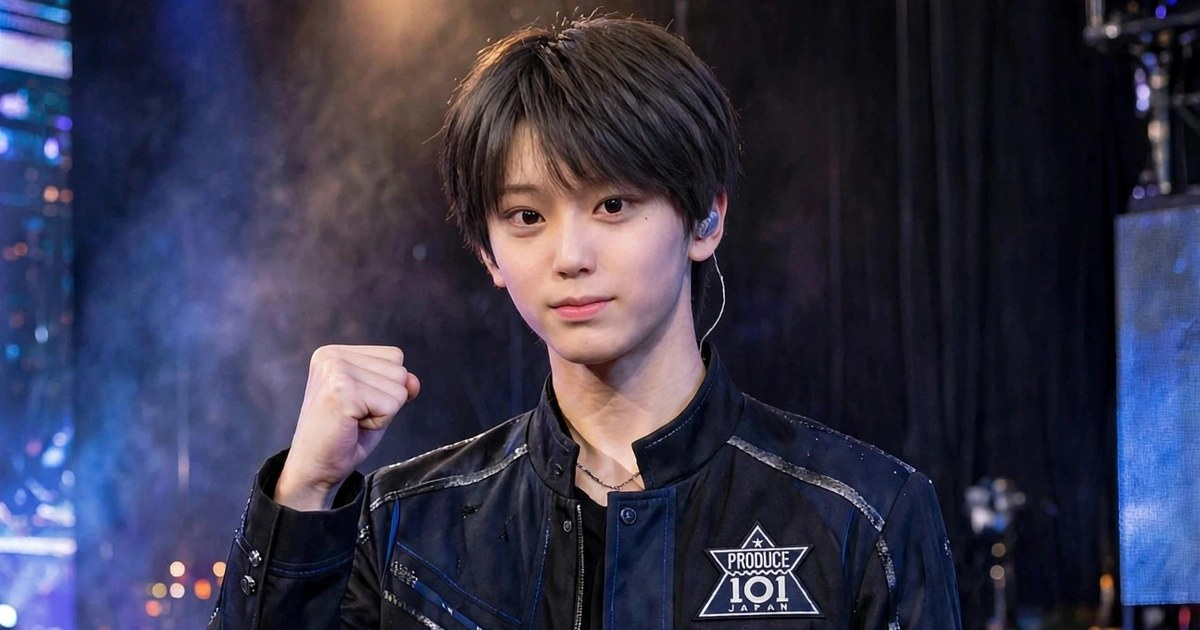
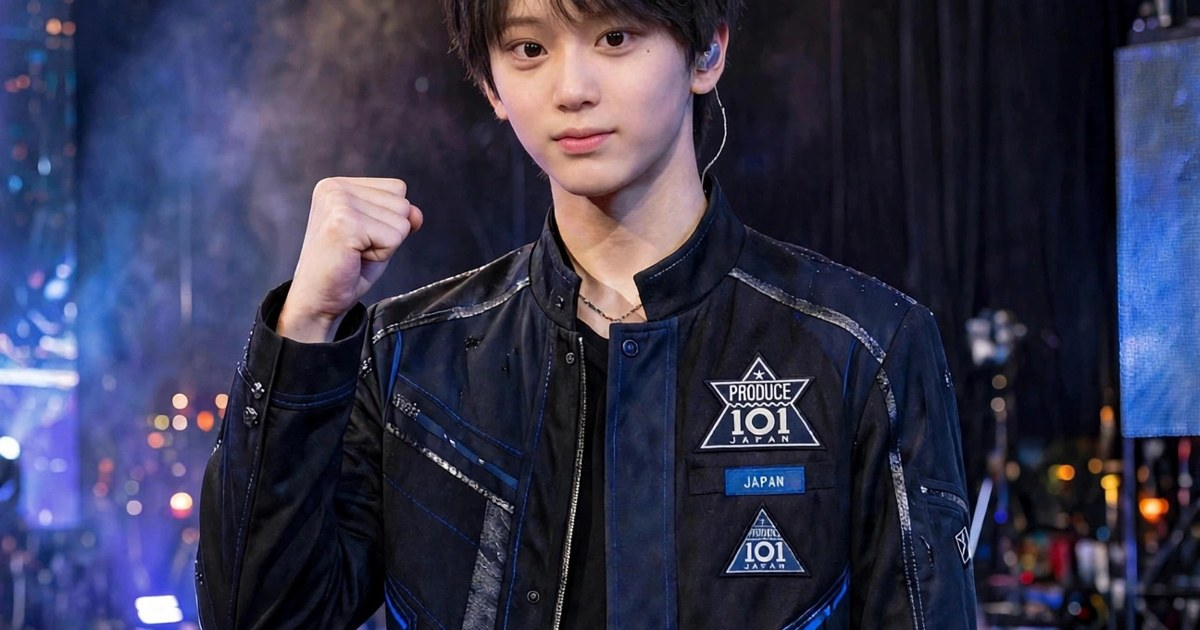
v163: 2019 stage/ranking-close の鼻を自然な大きさに再修正

diff --git a/index.html b/index.html
@@ -806,7 +806,7 @@ body{font-family:-apple-system,"Hiragino Kaku Gothic ProN","Noto Sans JP",sans-s
 <script>
 "use strict";
 const $=s=>document.querySelector(s);
-const VER="v162";
+const VER="v163";
 /* ============ state ============ */
 const DEF={idx:0,started:false,consented:false,soundOn:true,
  g:{iwakan:0,bare:0,todoita:0,uta:8,dance:4,ishi:50},
@@ -2560,7 +2560,7 @@ function renderSettings(tab){setTab=tab;document.querySelectorAll("#set-tabs but
  <div class="srow"><span>到達した結末</span><span class="sv">${S.trueEnd?"TRUE END ― 現在":S.normalEnd?"END ― 通常現在":S.loopBad?"BAD END ― ループ継続":S.bareEnd?"END ― 秘密バレIF":S.ridatsuEnd?"END ― 離脱した現在":"（まだ到達していません）"}</span></div>
  <div class="srow"><span>サウンド</span><span class="sv"><button id="snd-btn" style="background:${S.soundOn!==false?"#17172a":"#c6c6d4"};color:#fff;border:none;border-radius:999px;padding:6px 18px;font-size:12.5px;font-weight:700;cursor:pointer">${S.soundOn!==false?"ON":"OFF"}</button></span></div>
  <div class="srow"><span>フィクション</span><span class="sv">実在の記録をもとにした創作です</span></div>
- <div class="srow"><span>アップデート</span><span class="sv">v16 サウンドと画面遷移／v17 差分再演REPLAYとDiff時代別表示／v18 現在の小さな変化／v19 トークのスレッドとフリーチャット／v20・v23・v32 場面カットの追加／v21 日常回（食堂の夜・売店の夜）／v22 番組アプリの情報デザイン／v24 ホーム背景の時代連動と進行％／v25 タイトルのスライドショー／v26 彼の画面のカウンタ／v27 ロック画面の通知スタック／v28 写真の全画面ビューア／v30 章ごとの記録カード／v31 フィナーレ直前の彼の視点／v33 フリーチャットの時代別応答／v34 投票レシート／v35 ミッション進捗バー／v36 ゲージの危険域表示／v37 選んだ記録の判別表示／v38 台帳の時代別表示／v39 Keepsakeの時代バッジ／v41 章名つきロック画面／v42 トークの新着バッジ／v43 名簿の詳細パネル／v44 写真のスワイプ送り／v45 BGMの時代連動／v46 順位・差分の専用SE／v47 長押し早送り／v48 章セレクト／v50 REPLAY再演の追加／v52 日常回（コンビニの夜）／v53 タイトル通知のセーブ連動／v54 アプリアイコンのバッジ／v55 主人公の正式名「三浦渚央」と2019プロフィールの新フェイス差し替え／v56〜v59 プロフィール・場面カットの新フェイス再生成／v60 カード画角の統一（頭部55〜60%）と三浦渚央の順位表示／v61 名簿メモへの順位追記と凡例／v62 周B順位発表の彼の視点／v63 ストーリーバナーのサムネ時代連動／v64 タイトルに正式名／v65 ロック画面に順位通知／v66 情報タブに順位の記録／v67 順位行の文字色修正／v68 現在の小さな変化（順位の残響）／v69 写真メモに順位結果／v70 節目 ― 全アプリ走査／v71 フリーチャットの話題追加／v72 トークのチップ追加／v73・v74 順位タブの空状態整理／v75 順位変動のDiff記録／v76 節目 ― 全アプリ走査／v77 2021周A・初回ステージ後に彼の画面を追加／v78 2023周A・ファンカム章に彼の視点（インライン）を追加／v79 2019周A・順位発表式に彼の視点（インライン）を追加／v80 2023周A・VERY NICE本番前に彼の視点（インライン）を追加／v81 2023周A・寮の夜に彼の視点（インライン）を追加／v82 2019周A・届くはずのなかった手紙に彼の視点（インライン）を追加／v83 フリーチャットの話題拡充（2019専用プール＋新キーワード6種＋チップ追加）／v84 周Aの彼の記憶の線引きで全監査（2021・2023到着場面と彼の画面3件を連続した同僚の前提に書き換え）／v85 2019周A・練習室の夜に彼の視点（インライン）を追加／v86 2021周A・寮の一夜に彼の視点（インライン）を追加／v87 2023周A・コンビニの夜に彼の視点（インライン）を追加／v88 台帳・Keepsake・Diffの時代分類を修正（NXD期グループ新設、誤分類6件を是正）／v89 場面カット追加（2023順位発表の夜・face2基準で新規生成）／v90 場面カット追加（2021ファイナルの夜・face2基準で新規生成）／v91 節目 ― 全アプリ走査／v92 日常回「自販機の夜」（2023・周B）を追加／v93 2019周A・レベル分け評価に彼の視点（インライン）を追加／v94 写真アプリに時代別グルーピング（見出し＋枚数）を追加／v95 場面カット追加（NXD期・夜の練習室、face2基準で新規生成）／v96 フリーチャットの時代別プールを拡充（各時代＋2件）／v97 2019周B・発覚に彼の視点（インライン）を追加／v98 2021周B・再会に彼の視点（インライン）を追加／v99 2023周B・発覚に彼の視点（インライン）を追加／v100 節目 ― 全編通しプレイ検証／v101 効果音の配線追加（台帳・Keepsake・彼の視点）／v102 トークに彼のメッセージを3件追加／v103 タイトルのスライドショー拡充（8枚）とホーム背景のNXD期差し替え／v104 2023周B・再会に彼の視点（インライン）を追加／v105 2021周B・売店の夜に彼の視点（インライン）を追加／v106 NXD期・周B「移籍の決断」に彼の視点（インライン）を追加／v107 2023周B・共同作戦に彼の視点（インライン）を追加／v108 2019周B・共同作戦（ツカメ対策）に彼の視点（インライン）を追加／v109 2021周B・共同作戦に彼の視点（インライン）を追加／v110 NXD期・周B「延期の季節 ― 二度目」に彼の視点（インライン）を追加／v111 フリーチャット拡充（キーワード応答3種・チップ2件・現在編プール拡充）／v112 節目 ― 全アプリ走査／v113 2023周B・自販機の夜に彼の視点（インライン）を追加／v114 2019周A・食堂の夜に彼の視点（インライン）を追加／v115 2021周B・順位発表の締めに彼の視点（インライン）を追加／v116 設計ドキュメントの実装状況を更新／v117 場面カット追加（2019食堂の夜・face2基準で新規生成）／v118 場面カット追加（2021売店の夜・face2基準で新規生成）／v119 場面カット追加（2023コンビニの夜・face2基準で新規生成）／v120 背景の差し替え（現在編の冒頭とソロデビューの場面）／v121 節目 ― 全編通しプレイ検証（v101〜v120の追加後）／v122 画像出典メモ（IMAGE_SOURCES.md）に新規カット6点とface2基準を追記／v123 READMEの状態表記を現行（本編完結・公開中）に更新／v124 視覚QAで発見した順位タブの防御的修正（順位値の欠損時に最低ラインへフォールバック）／v125 節目 ― 全画面の視覚QA（撮影確認）／v126 節目 ― 別エンディング到達検証（秘密バレIF・離脱した現在）／v127 節目 ― 全5エンディング到達検証の完了（通常現在・ループ継続BADを追加確認）／v128 設計ドキュメントの実装状況に最終検証結果を追記／v129 READMEの現行版表記を更新／v130 生成メタファイルを .gitignore に追加して作業ツリーを整理／v131 「届くはずのなかった手紙」に背景を設定（食堂カットの引き継ぎを解消）／v132 フリーチャットの応答拡充（キーワード応答8種・時代別プール各+2件・チップ2件を追加）／v133 仕上げのUI調整（ホームのアプリアイコンのラベルの可読性を向上、ストーリー画面のゲージチップを均等な3+3配置に整形）／v134 フリーチャットに語学の話題を追加（中国語・韓国語・英語へのキーワード応答）／v135 節目 ― 朝まで改修の最終版（全アプリ走査・ドキュメント同期）／v136 トークを実物化（1相手=1スレッドに集約・未読バッジ・プレビュー・実物時刻・日付チップ・自分の送信への既読表示。仕組みは『現役アイドル、Tinderやってた件』のLINEと『キープ管理中！』の未読管理から移植）／v137 2021・2023の渚央プロフィールを制服版に統一（創造営の紺制服／ボイプラの淡グレー制服。名簿・順位・パネル・背景・写真の参照を全て profile-uniform 系へ）／v138 ロック画面とホームの実物化（主通知の送信者を実アプリ名にし未読トークがあれば最新メッセージを表示、日付を月日＋曜日の実物形式に、ホームと写真の操作説明文を撤去）／v139 トークをTinder版（v462）LINEと実測比較して一致（バブルの角・色・文字サイズ、入力欄、送信ボタン、日付チップ、一覧の行構成と検索ボックス、スレッドヘッダーのアバター）／v140 トークにLINEアプリのシェルを移植（下部タブバー＋タブ画面を新設。タブの数・並び・切替挙動はTinder版LINEと同一で、ホームタブは三浦渚央のプロフィール＋届いた応援カード＋友だちリストのパネル、ニュースは番組アプリ、その他は設定・記録へ接続）／v141 ロック画面の進化（時計を88px・太字に、通知カードをblur20px＋saturateの実物仕様にして幅を統一、スタック通知のアイコンをアプリ別SVGに分けて出現をスタッガード化。ステータスバーと電池％を追加し、壁紙を時代連動＋緩やかなズームに。下部のライトは白フラッシュが光る実働ボタンに、カメラは写真アプリへ直行。通知はタップで該当アプリ・記録へ遷移）／v142 ホーム画面の進化（Tinder版ホームのページ構成を移植：飾りだったドットを実働の2ページ化にし、横スワイプとドットタップで切替。2ページ目に物語暦のカレンダーウィジェットと時代のカットが切り替わる写真ウィジェットを新設し、記録サマリと次のミッションを移設。ドットの横に検索ピルを追加し、アプリ・記録を検索して直接開けるシートを実装。下部にガラスのドック（トーク／写真／番組アプリ／設定・記録、バッジ連動）を追加。ステータスバーに電池％、壁紙に緩やかなズーム）／v143 ロック画面の通知スタックの隙間を修正（ベースCSSの上マージン34pxがスタック内の通知にも効いて間隔が42pxに広がっていたのを、実物どおり8pxに統一。あわせて通知領域を時計の下〜下部ボタンの上のスクロール領域にして、通知が多くてもライト／カメラのボタンやヒント文字に重ならないようにした）／v144 写真アプリの進化（『現役アイドル、Tinderやってた件』の写真アプリから移植：2列カード型だったグリッドを3列・隙間2px・正方形の実物仕様にし、時代見出し＋枚数のヘッダーと上部のピル型タブ（すべて／時代別で絞り込み）を新設。ビューアはお気に入り（セーブに保持、グリッドにもハート表示）とスライドショーを追加し、送りを循環式から端で止まるクランプ式に変更、キャプション＋差分メモ＋時代＋通し番号のメタ表示とキー操作に対応。複数選択モード（最大4枚）からコラージュを作成でき、ロック画面の壁紙にも設定できる（時代連動に戻す導線つき）。中身の時代別カットと枚数は従来どおり）／v145 アプリアイコンをTinder版の様式に統一（アイコンを全面SVG化し、背景レイヤーまで1枚に収める方式へ。トーク＝LINE・写真・設定・記録はTinder版と同型のアイコンに、番組アプリは金の縦グラデーション＋王冠のグリフで同水準に。アイコンの角丸と影もTinder版の実測値に一致。あわせてラベル用ピルのCSSがドックのアイコンにも漏れて円形になっていた不具合を修正し、ドックでもグリッドと同じ角丸アイコンが並ぶようにした）／v147 渚央の顔を最終基準（本人の写真由来の顔＋クールな髪型）へ差し替え開始。2023編のプロフィール（基準画像そのものへ差し替え、カード用クロップも新基準で作成）と場面カット全8点を基準顔で再生成／v148 2021編を新基準へ差し替え（プロフィールは19歳相当＋創造営制服＋屋外背景で新規生成、カード用クロップも作成。場面カット5点＝daily／practice／ranking-close／study／shop-nightを19歳相当の基準顔で再生成。stageは次版で差し替え予定）／v149 2019編を新基準へ全面差し替え（プロフィールは17歳相当で再生成し直し、カード用クロップも新規作成。場面カット7点＝stage／stage2／dorm／practice／ranking-close／selfie／cafeteriaを17歳相当の基準顔で再生成）。リンクプレビュー用のog:image（新stageから作成）も新設／v150 旧素材（候補ファイル群・旧プロフィール）を保管庫へ退避し、顔素材を新基準のラインに統一（表示内容の変更なし）／v151 2021のステージカットを新顔基準（19歳版）で差し替え、顔の全面差し替えが完了／v153 2021プロフィールに創造営の学員証を追加（メンバーが付けている装着物に合わせた。2019は名札が既存仕様どおり、2023は装着物なしが実物どおり）。<br>v152 全時代のプロフィールをポーズ付きに作り直し（2019＝ガッツポーズの全身ショット、2021＝頬ハートの膝上ショット、2023＝腕組みのウエスト上ショット。顔は新基準のラインを維持し、寄りクロップも新しい全身から作り直し）<br>v154 全身カットの脚の比率を修正（2019・2021の練習室カットを脚長・細身のモデル体型プロポーションで再生成。構図・ポーズ・顔は維持）<br>v155 鼻の大きさを基準顔に修正（2019ステージカットと順位発表カットの鼻を、基準の小さく細い鼻筋＋小さく上向きの鼻先に寄せて再生成。構図・衣装・表情は維持）<br>v156 「彼の画面」を現代のモバイルADV風に作り替え（時代の場面カットをぼかしたシネマティック背景＋暗グラデーション、大翔のアバター＋名前チップのヘッダー、進行は紫ピルをやめてグラデーションのプログレスバー＋控えめな件数表示に。心の声は字幕風の中央テキスト＋ヘアライン区切り、セリフはガラス質の吹き出しカードにし、金枠と紫イタリックを廃止。終わりは白ピルの「戻る」ボタン。本文・分岐・ゲージの仕様は不変。物語内の彼の視点カードも同じ質感に統一）<br>v157 番組アプリのリアル化（お知らせタブを新設し、時代と進行に連動する事務局・投票・コンテンツ通知を掲載。結果のお知らせからは順位タブへ遷移。名簿の詳細をプロフィールページ化：ヒーロー写真＋名前オーバーレイ＋区分・番組の情報行＋順位の記録テーブル（彼の初回12位など史実と周ごとの結果を、発表済みの分だけ表示）＋渚央のスキルバー。順位タブの大翔・渚央の周B行に前回比の変動チップ▲を追加）<br>v158 設定・記録のリアル化（情報タブをiOS設定風に：作品情報／いまの記録／サウンド／履歴のグループカード化、サウンドはピルボタンからiOSトグルスイッチに、長いアップデート履歴は開閉式に収納。表示テキストは全て従来どおり。ゲージ・台帳・Keepsake・Diff・章の各タブはカード型の行＋チップ見出しで履歴・メモ系UIの質感に統一。ゲージ説明や順位計算などの仕様・文言は不変）<br>v162 周Bの記憶ルールを新仕様に統一（彼の記憶は周B開始時＝2019年の再会で大周回Aの全部が一度に戻る。旧仕様「時代ごとに、その時代ぶんが順に戻る」は廃止。2019編の発覚を全部戻った前提の大きな一場面に書き直し、2021・2023編の再会は「その時代の記憶が戻る・既視感から確信」ではなく確認と共同作戦の続きに書き換え。彼の視点・幕間・ロック画面の通知文も同じ前提に統一。ゲージ・分岐・順位計算などの数値仕様は不変）</span></div>
+ <div class="srow"><span>アップデート</span><span class="sv">v16 サウンドと画面遷移／v17 差分再演REPLAYとDiff時代別表示／v18 現在の小さな変化／v19 トークのスレッドとフリーチャット／v20・v23・v32 場面カットの追加／v21 日常回（食堂の夜・売店の夜）／v22 番組アプリの情報デザイン／v24 ホーム背景の時代連動と進行％／v25 タイトルのスライドショー／v26 彼の画面のカウンタ／v27 ロック画面の通知スタック／v28 写真の全画面ビューア／v30 章ごとの記録カード／v31 フィナーレ直前の彼の視点／v33 フリーチャットの時代別応答／v34 投票レシート／v35 ミッション進捗バー／v36 ゲージの危険域表示／v37 選んだ記録の判別表示／v38 台帳の時代別表示／v39 Keepsakeの時代バッジ／v41 章名つきロック画面／v42 トークの新着バッジ／v43 名簿の詳細パネル／v44 写真のスワイプ送り／v45 BGMの時代連動／v46 順位・差分の専用SE／v47 長押し早送り／v48 章セレクト／v50 REPLAY再演の追加／v52 日常回（コンビニの夜）／v53 タイトル通知のセーブ連動／v54 アプリアイコンのバッジ／v55 主人公の正式名「三浦渚央」と2019プロフィールの新フェイス差し替え／v56〜v59 プロフィール・場面カットの新フェイス再生成／v60 カード画角の統一（頭部55〜60%）と三浦渚央の順位表示／v61 名簿メモへの順位追記と凡例／v62 周B順位発表の彼の視点／v63 ストーリーバナーのサムネ時代連動／v64 タイトルに正式名／v65 ロック画面に順位通知／v66 情報タブに順位の記録／v67 順位行の文字色修正／v68 現在の小さな変化（順位の残響）／v69 写真メモに順位結果／v70 節目 ― 全アプリ走査／v71 フリーチャットの話題追加／v72 トークのチップ追加／v73・v74 順位タブの空状態整理／v75 順位変動のDiff記録／v76 節目 ― 全アプリ走査／v77 2021周A・初回ステージ後に彼の画面を追加／v78 2023周A・ファンカム章に彼の視点（インライン）を追加／v79 2019周A・順位発表式に彼の視点（インライン）を追加／v80 2023周A・VERY NICE本番前に彼の視点（インライン）を追加／v81 2023周A・寮の夜に彼の視点（インライン）を追加／v82 2019周A・届くはずのなかった手紙に彼の視点（インライン）を追加／v83 フリーチャットの話題拡充（2019専用プール＋新キーワード6種＋チップ追加）／v84 周Aの彼の記憶の線引きで全監査（2021・2023到着場面と彼の画面3件を連続した同僚の前提に書き換え）／v85 2019周A・練習室の夜に彼の視点（インライン）を追加／v86 2021周A・寮の一夜に彼の視点（インライン）を追加／v87 2023周A・コンビニの夜に彼の視点（インライン）を追加／v88 台帳・Keepsake・Diffの時代分類を修正（NXD期グループ新設、誤分類6件を是正）／v89 場面カット追加（2023順位発表の夜・face2基準で新規生成）／v90 場面カット追加（2021ファイナルの夜・face2基準で新規生成）／v91 節目 ― 全アプリ走査／v92 日常回「自販機の夜」（2023・周B）を追加／v93 2019周A・レベル分け評価に彼の視点（インライン）を追加／v94 写真アプリに時代別グルーピング（見出し＋枚数）を追加／v95 場面カット追加（NXD期・夜の練習室、face2基準で新規生成）／v96 フリーチャットの時代別プールを拡充（各時代＋2件）／v97 2019周B・発覚に彼の視点（インライン）を追加／v98 2021周B・再会に彼の視点（インライン）を追加／v99 2023周B・発覚に彼の視点（インライン）を追加／v100 節目 ― 全編通しプレイ検証／v101 効果音の配線追加（台帳・Keepsake・彼の視点）／v102 トークに彼のメッセージを3件追加／v103 タイトルのスライドショー拡充（8枚）とホーム背景のNXD期差し替え／v104 2023周B・再会に彼の視点（インライン）を追加／v105 2021周B・売店の夜に彼の視点（インライン）を追加／v106 NXD期・周B「移籍の決断」に彼の視点（インライン）を追加／v107 2023周B・共同作戦に彼の視点（インライン）を追加／v108 2019周B・共同作戦（ツカメ対策）に彼の視点（インライン）を追加／v109 2021周B・共同作戦に彼の視点（インライン）を追加／v110 NXD期・周B「延期の季節 ― 二度目」に彼の視点（インライン）を追加／v111 フリーチャット拡充（キーワード応答3種・チップ2件・現在編プール拡充）／v112 節目 ― 全アプリ走査／v113 2023周B・自販機の夜に彼の視点（インライン）を追加／v114 2019周A・食堂の夜に彼の視点（インライン）を追加／v115 2021周B・順位発表の締めに彼の視点（インライン）を追加／v116 設計ドキュメントの実装状況を更新／v117 場面カット追加（2019食堂の夜・face2基準で新規生成）／v118 場面カット追加（2021売店の夜・face2基準で新規生成）／v119 場面カット追加（2023コンビニの夜・face2基準で新規生成）／v120 背景の差し替え（現在編の冒頭とソロデビューの場面）／v121 節目 ― 全編通しプレイ検証（v101〜v120の追加後）／v122 画像出典メモ（IMAGE_SOURCES.md）に新規カット6点とface2基準を追記／v123 READMEの状態表記を現行（本編完結・公開中）に更新／v124 視覚QAで発見した順位タブの防御的修正（順位値の欠損時に最低ラインへフォールバック）／v125 節目 ― 全画面の視覚QA（撮影確認）／v126 節目 ― 別エンディング到達検証（秘密バレIF・離脱した現在）／v127 節目 ― 全5エンディング到達検証の完了（通常現在・ループ継続BADを追加確認）／v128 設計ドキュメントの実装状況に最終検証結果を追記／v129 READMEの現行版表記を更新／v130 生成メタファイルを .gitignore に追加して作業ツリーを整理／v131 「届くはずのなかった手紙」に背景を設定（食堂カットの引き継ぎを解消）／v132 フリーチャットの応答拡充（キーワード応答8種・時代別プール各+2件・チップ2件を追加）／v133 仕上げのUI調整（ホームのアプリアイコンのラベルの可読性を向上、ストーリー画面のゲージチップを均等な3+3配置に整形）／v134 フリーチャットに語学の話題を追加（中国語・韓国語・英語へのキーワード応答）／v135 節目 ― 朝まで改修の最終版（全アプリ走査・ドキュメント同期）／v136 トークを実物化（1相手=1スレッドに集約・未読バッジ・プレビュー・実物時刻・日付チップ・自分の送信への既読表示。仕組みは『現役アイドル、Tinderやってた件』のLINEと『キープ管理中！』の未読管理から移植）／v137 2021・2023の渚央プロフィールを制服版に統一（創造営の紺制服／ボイプラの淡グレー制服。名簿・順位・パネル・背景・写真の参照を全て profile-uniform 系へ）／v138 ロック画面とホームの実物化（主通知の送信者を実アプリ名にし未読トークがあれば最新メッセージを表示、日付を月日＋曜日の実物形式に、ホームと写真の操作説明文を撤去）／v139 トークをTinder版（v462）LINEと実測比較して一致（バブルの角・色・文字サイズ、入力欄、送信ボタン、日付チップ、一覧の行構成と検索ボックス、スレッドヘッダーのアバター）／v140 トークにLINEアプリのシェルを移植（下部タブバー＋タブ画面を新設。タブの数・並び・切替挙動はTinder版LINEと同一で、ホームタブは三浦渚央のプロフィール＋届いた応援カード＋友だちリストのパネル、ニュースは番組アプリ、その他は設定・記録へ接続）／v141 ロック画面の進化（時計を88px・太字に、通知カードをblur20px＋saturateの実物仕様にして幅を統一、スタック通知のアイコンをアプリ別SVGに分けて出現をスタッガード化。ステータスバーと電池％を追加し、壁紙を時代連動＋緩やかなズームに。下部のライトは白フラッシュが光る実働ボタンに、カメラは写真アプリへ直行。通知はタップで該当アプリ・記録へ遷移）／v142 ホーム画面の進化（Tinder版ホームのページ構成を移植：飾りだったドットを実働の2ページ化にし、横スワイプとドットタップで切替。2ページ目に物語暦のカレンダーウィジェットと時代のカットが切り替わる写真ウィジェットを新設し、記録サマリと次のミッションを移設。ドットの横に検索ピルを追加し、アプリ・記録を検索して直接開けるシートを実装。下部にガラスのドック（トーク／写真／番組アプリ／設定・記録、バッジ連動）を追加。ステータスバーに電池％、壁紙に緩やかなズーム）／v143 ロック画面の通知スタックの隙間を修正（ベースCSSの上マージン34pxがスタック内の通知にも効いて間隔が42pxに広がっていたのを、実物どおり8pxに統一。あわせて通知領域を時計の下〜下部ボタンの上のスクロール領域にして、通知が多くてもライト／カメラのボタンやヒント文字に重ならないようにした）／v144 写真アプリの進化（『現役アイドル、Tinderやってた件』の写真アプリから移植：2列カード型だったグリッドを3列・隙間2px・正方形の実物仕様にし、時代見出し＋枚数のヘッダーと上部のピル型タブ（すべて／時代別で絞り込み）を新設。ビューアはお気に入り（セーブに保持、グリッドにもハート表示）とスライドショーを追加し、送りを循環式から端で止まるクランプ式に変更、キャプション＋差分メモ＋時代＋通し番号のメタ表示とキー操作に対応。複数選択モード（最大4枚）からコラージュを作成でき、ロック画面の壁紙にも設定できる（時代連動に戻す導線つき）。中身の時代別カットと枚数は従来どおり）／v145 アプリアイコンをTinder版の様式に統一（アイコンを全面SVG化し、背景レイヤーまで1枚に収める方式へ。トーク＝LINE・写真・設定・記録はTinder版と同型のアイコンに、番組アプリは金の縦グラデーション＋王冠のグリフで同水準に。アイコンの角丸と影もTinder版の実測値に一致。あわせてラベル用ピルのCSSがドックのアイコンにも漏れて円形になっていた不具合を修正し、ドックでもグリッドと同じ角丸アイコンが並ぶようにした）／v147 渚央の顔を最終基準（本人の写真由来の顔＋クールな髪型）へ差し替え開始。2023編のプロフィール（基準画像そのものへ差し替え、カード用クロップも新基準で作成）と場面カット全8点を基準顔で再生成／v148 2021編を新基準へ差し替え（プロフィールは19歳相当＋創造営制服＋屋外背景で新規生成、カード用クロップも作成。場面カット5点＝daily／practice／ranking-close／study／shop-nightを19歳相当の基準顔で再生成。stageは次版で差し替え予定）／v149 2019編を新基準へ全面差し替え（プロフィールは17歳相当で再生成し直し、カード用クロップも新規作成。場面カット7点＝stage／stage2／dorm／practice／ranking-close／selfie／cafeteriaを17歳相当の基準顔で再生成）。リンクプレビュー用のog:image（新stageから作成）も新設／v150 旧素材（候補ファイル群・旧プロフィール）を保管庫へ退避し、顔素材を新基準のラインに統一（表示内容の変更なし）／v151 2021のステージカットを新顔基準（19歳版）で差し替え、顔の全面差し替えが完了／v153 2021プロフィールに創造営の学員証を追加（メンバーが付けている装着物に合わせた。2019は名札が既存仕様どおり、2023は装着物なしが実物どおり）。<br>v152 全時代のプロフィールをポーズ付きに作り直し（2019＝ガッツポーズの全身ショット、2021＝頬ハートの膝上ショット、2023＝腕組みのウエスト上ショット。顔は新基準のラインを維持し、寄りクロップも新しい全身から作り直し）<br>v154 全身カットの脚の比率を修正（2019・2021の練習室カットを脚長・細身のモデル体型プロポーションで再生成。構図・ポーズ・顔は維持）<br>v155 鼻の大きさを基準顔に修正（2019ステージカットと順位発表カットの鼻を、基準の小さく細い鼻筋＋小さく上向きの鼻先に寄せて再生成。構図・衣装・表情は維持）<br>v156 「彼の画面」を現代のモバイルADV風に作り替え（時代の場面カットをぼかしたシネマティック背景＋暗グラデーション、大翔のアバター＋名前チップのヘッダー、進行は紫ピルをやめてグラデーションのプログレスバー＋控えめな件数表示に。心の声は字幕風の中央テキスト＋ヘアライン区切り、セリフはガラス質の吹き出しカードにし、金枠と紫イタリックを廃止。終わりは白ピルの「戻る」ボタン。本文・分岐・ゲージの仕様は不変。物語内の彼の視点カードも同じ質感に統一）<br>v157 番組アプリのリアル化（お知らせタブを新設し、時代と進行に連動する事務局・投票・コンテンツ通知を掲載。結果のお知らせからは順位タブへ遷移。名簿の詳細をプロフィールページ化：ヒーロー写真＋名前オーバーレイ＋区分・番組の情報行＋順位の記録テーブル（彼の初回12位など史実と周ごとの結果を、発表済みの分だけ表示）＋渚央のスキルバー。順位タブの大翔・渚央の周B行に前回比の変動チップ▲を追加）<br>v158 設定・記録のリアル化（情報タブをiOS設定風に：作品情報／いまの記録／サウンド／履歴のグループカード化、サウンドはピルボタンからiOSトグルスイッチに、長いアップデート履歴は開閉式に収納。表示テキストは全て従来どおり。ゲージ・台帳・Keepsake・Diff・章の各タブはカード型の行＋チップ見出しで履歴・メモ系UIの質感に統一。ゲージ説明や順位計算などの仕様・文言は不変）<br>v162 周Bの記憶ルールを新仕様に統一（彼の記憶は周B開始時＝2019年の再会で大周回Aの全部が一度に戻る。旧仕様「時代ごとに、その時代ぶんが順に戻る」は廃止。2019編の発覚を全部戻った前提の大きな一場面に書き直し、2021・2023編の再会は「その時代の記憶が戻る・既視感から確信」ではなく確認と共同作戦の続きに書き換え。彼の視点・幕間・ロック画面の通知文も同じ前提に統一。ゲージ・分岐・順位計算などの数値仕様は不変）<br>v163 2019の2点（ステージ／順位発表の寄り）の鼻を再修正（v155で小さく寄りすぎていたものを、基準顔の比率どおりの自然な大きさに戻して再生成。顔・構図・衣装は維持。og画像も新しいステージカットから作り直し）</span></div>
  <div class="pad"><p class="small">エンディングは5種（TRUE現在／通常現在／離脱した現在／秘密バレIF／ループ継続BAD）。結末は、彼の岐路での関わり・手がかり（Keepsakeと届いた数）・男装バレ度・最後の選択で分かれます。なお「デビューしてしまう現在」はIF候補として設計にのみ記録され、本編では採用していません（デビューメンバー構成は不変のため）。</p></div>
  <div class="pad"><button class="btn" id="reset-btn" style="background:#ff3b30">データを消して最初から</button></div>`;
  const rb=$("#reset-btn");if(rb)rb.onclick=()=>{if(confirm("セーブデータを消して最初から始めますか？")){localStorage.removeItem("tlSaveV2");location.reload();}};

diff --git a/docs/ASSETS_NAO.md b/docs/ASSETS_NAO.md
@@ -134,3 +134,8 @@
 - v160：v154の脚長補正が過剰だった 2021練習室（本人が「細すぎて不自然」と指摘）と 2019練習室（同じ過剰補正を確認）を、「脚は長め＋自然な太さ」の新基準で再生成。全身カット全点の「細すぎ」チェックも実施し、他は自然な範囲内を確認（2019プロフィール全身／2023 nxd-night／2023 practice／2023 stage 等）
 - 旧カットは hidden_files/nao-faceaudit-backup/ に保管
 - 修正前の画像は hidden_files/nao-fix-backup/ に保管
+
+## 鼻の大きさの監査基準（2026-11-09 v163で追記）
+- v159の顔全面監査で「小さすぎの逸脱なし」とした判定は、本人の実機指摘で誤りと判明し訂正する。旧版の2019 stage／ranking-close（v155で「大きすぎ」を直した版）が「小さすぎ側の下限の実例（グラウンドトゥルース）」
+- v163でこの2点を基準（standard-final.jpg）の鼻の比率どおりの自然な大きさに再生成して差し替え済み。他の寄りカット19点は下限の物差しで再判定し、自然な範囲（小さすぎ該当は指摘の2点のみ）
+- 今後の鼻の監査は「大きすぎ／小さすぎ」の両方向とも、基準との比率の精密比較で行うこと。監査側の目視だけで「逸脱なし」と断定しない
